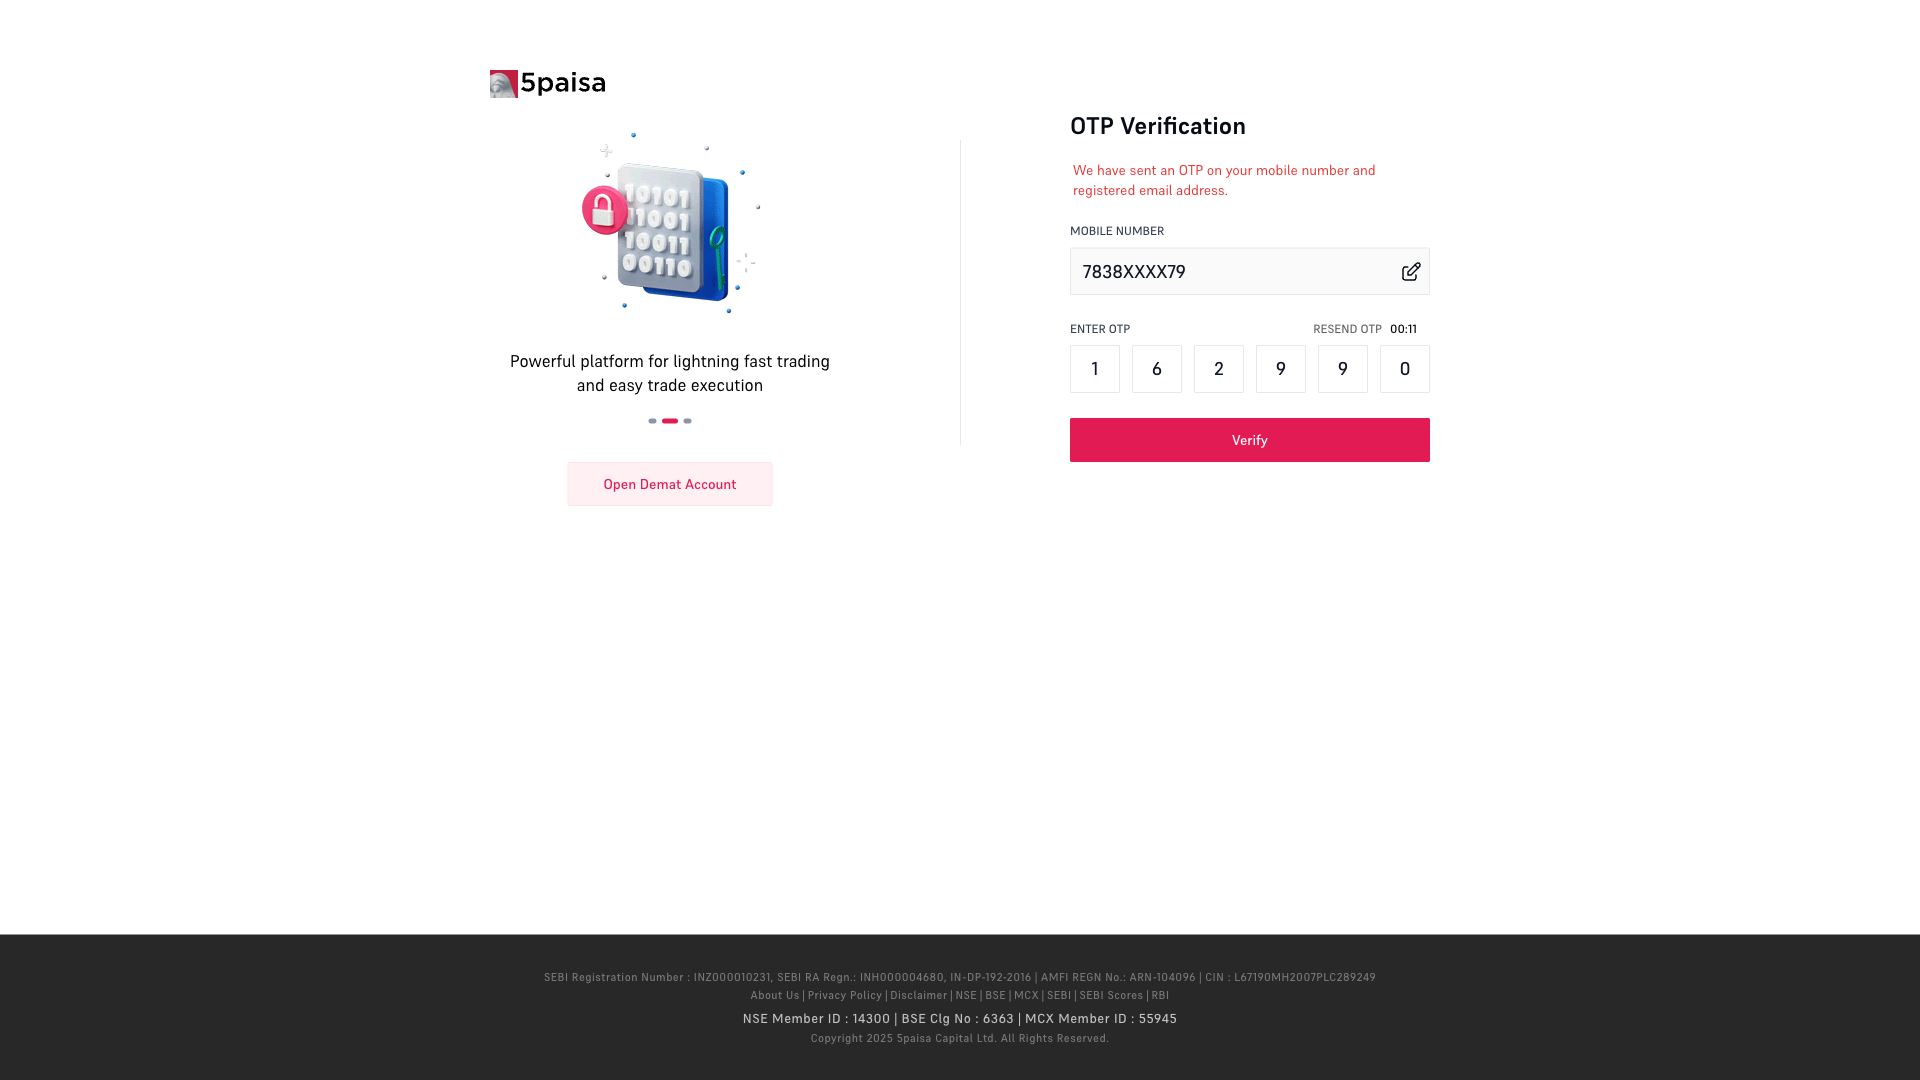
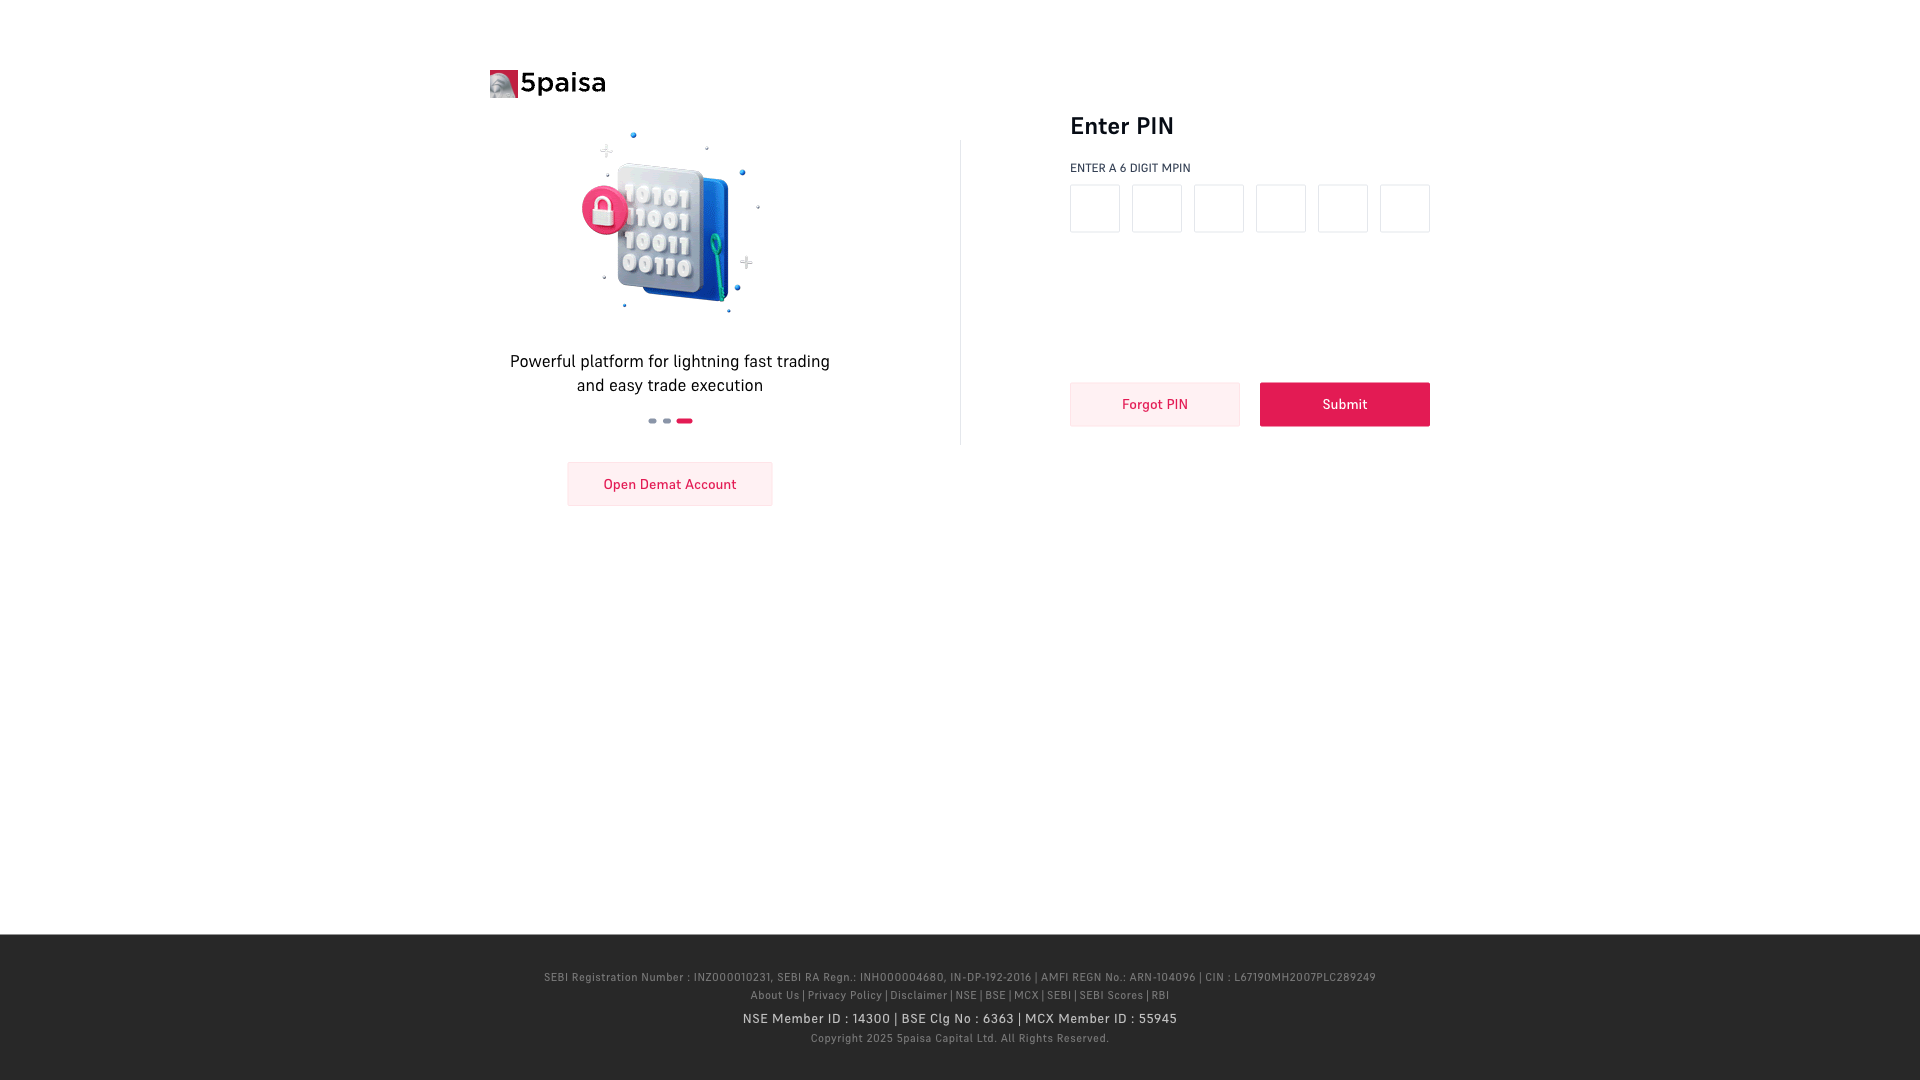
initialcommits only

diff --git a/debug_pin_screen_page.html b/debug_pin_screen_page.html
@@ -60,7 +60,7 @@
         <input type="hidden" id="hdnMobileNo" value="7838XXXX79" style="">
         <input type="hidden" id="hdnVendorKey" value="NgsvVsF61rnO6VAXASdlhvXqLnkZuKCT" style="">
         <input type="hidden" id="hdnState" style="">
-        <input type="hidden" id="hdnResponseURL" value="https://tradeyouralgo.com" style="">
+        <input type="hidden" id="hdnResponseURL" value="http://tradealgo-env.eba-dughp7yu.ap-south-1.elasticbeanstalk.com/api/reqToken" style="">
         <input type="hidden" id="hdnClientCode" value="58245489" style="">
         <input type="button" id="hdnOTPSenttime" value="0:0:30" style="display: none;">
         <input type="button" id="hdnForgetLink" value="N" style="display: none;">
@@ -86,18 +86,18 @@
                                     <div class="item">
                                         <p>Powerful platform for lightning fast trading and easy trade execution</p>
                                     </div>
-                                    <div class="item active">
+                                    <div class="item">
                                         <p>Powerful platform for lightning fast trading and easy trade execution</p>
                                     </div>
-                                    <div class="item">
+                                    <div class="item active">
                                         <p>Powerful platform for lightning fast trading and easy trade execution</p>
                                     </div>
                                 </div>
                                 <!-- Bottom Carousel Indicators -->
                                 <ol class="carousel-indicators">
                                     <li data-target="#quote-carousel" data-slide-to="0" class=""></li>
-                                    <li data-target="#quote-carousel" data-slide-to="1" class="active"></li>
-                                    <li data-target="#quote-carousel" data-slide-to="2" class=""></li>
+                                    <li data-target="#quote-carousel" data-slide-to="1" class=""></li>
+                                    <li data-target="#quote-carousel" data-slide-to="2" class="active"></li>
                                 </ol>
 
                                 <!-- Carousel Buttons Next/Prev -->
@@ -139,7 +139,7 @@
                         
                         <div class="sec_TOTP hide">
                             <h3 class="frm_head">TOTP Verification</h3>
-                            <p class="frm_txt">We have sent an OTP on your mobile number and registered email address.</p>
+                            <p class="frm_txt"></p>
                             <div class="input_wrap">
                                 <label>ENTER TOTP</label>
                                 <div class="mpin">
@@ -181,10 +181,10 @@
 
                         
 
-                        <div class="sec_otp-verification">
+                        <div class="sec_otp-verification hide">
                             
                             <h3 class="frm_head">OTP Verification</h3>
-                            <p class="frm_txt error-msg">We have sent an OTP on your mobile number and registered email address.</p>
+                            <p class="frm_txt error-msg"></p>
                             <div class="input_wrap">
                                 <label>MOBILE NUMBER</label>
                                 <div class="input_icon-wrap">
@@ -200,7 +200,7 @@
                                     <div class="counter-block">
                                         <!-- Add class="inactive" to disabled the 'RESEND OTP' link -->
                                         <a href="javascript: void(0)" id="lnkResendOTP" class="nonclickelem">RESEND OTP</a>
-                                        <span id="counter" class="counter-no">00:11</span>
+                                        <span id="counter" class="counter-no">00:22</span>
                                     </div>
                                 </div>
                                 <div class="mpin">
@@ -238,7 +238,7 @@
                                     </div>
                                 </div>
                             </div>
-                            <div class="msg-wrap error hide" id="ErrorLoginMPINWithOTP">
+                            <div class="msg-wrap error" id="ErrorLoginMPINWithOTP">
                                 <div class="msg-wrap-img"><img src="/WebVendorLogin/content/images/login/Error.png" alt="icon"></div>
                                 <div class="msg-wrap-txt">
                                     
@@ -331,7 +331,7 @@
 
 
                         
-                        <div class="sec_enterPin hide" id="divEnterPin">
+                        <div class="sec_enterPin" id="divEnterPin">
                             <h3 class="frm_head">Enter PIN</h3>
                             <div class="input_wrap">
                                 <label>ENTER A 6 DIGIT MPIN</label>
@@ -380,7 +380,7 @@
                             <!-- OTP verification with Proceed CTA-->
                             <div class="otpverify--box ">
                                 <h3 class="frm_head">OTP Verification</h3>
-                                <p class="frm_txt">We have sent an OTP on your mobile number and registered email address.</p>
+                                <p class="frm_txt"></p>
                                 <div class="input_wrap">
                                     <label>MOBILE NUMBER</label>
                                     <div class="input_icon-wrap">
@@ -478,7 +478,7 @@
                         
                         <div class="sec_register-user hide">
                             <h3 class="frm_head">Login</h3>
-                            <p class="frm_txt">We have sent an OTP on your mobile number and registered email address.</p>
+                            <p class="frm_txt"></p>
                             <div class="input_wrap">
                                 <label>ENTER USER ID</label>
                                 <div class="input_icon-wrap">

diff --git a/debug_otp_screen_page.html b/debug_otp_screen_page.html
@@ -60,7 +60,7 @@
         <input type="hidden" id="hdnMobileNo" value="7838XXXX79" style="">
         <input type="hidden" id="hdnVendorKey" value="NgsvVsF61rnO6VAXASdlhvXqLnkZuKCT" style="">
         <input type="hidden" id="hdnState" style="">
-        <input type="hidden" id="hdnResponseURL" value="https://tradeyouralgo.com" style="">
+        <input type="hidden" id="hdnResponseURL" value="http://tradealgo-env.eba-dughp7yu.ap-south-1.elasticbeanstalk.com/api/reqToken" style="">
         <input type="hidden" id="hdnClientCode" value="58245489" style="">
         <input type="button" id="hdnOTPSenttime" value="0:0:30" style="display: none;">
         <input type="button" id="hdnForgetLink" value="N" style="display: none;">
@@ -200,7 +200,7 @@
                                     <div class="counter-block">
                                         <!-- Add class="inactive" to disabled the 'RESEND OTP' link -->
                                         <a href="javascript: void(0)" id="lnkResendOTP" class="nonclickelem">RESEND OTP</a>
-                                        <span id="counter" class="counter-no">00:30</span>
+                                        <span id="counter" class="counter-no hide">00:00</span>
                                     </div>
                                 </div>
                                 <div class="mpin">

diff --git a/tradeyouralgoextension/fivepaisa_login.py b/tradeyouralgoextension/fivepaisa_login.py
@@ -7,6 +7,7 @@ from playwright.async_api import async_playwright, Browser, Page
 from typing import Optional
 import logging
 from urllib.parse import urlparse, parse_qs
+import re
 
 from .config import (
     FIVEPAISA_MOBILE_NUMBER,
@@ -212,7 +213,9 @@ class FivePaisaLogin:
 
             # Click verify/submit button after OTP entry
             verify_selectors = [
-                'button:has-text("Verify")',
+                '#btnVerify',
+                'button#btnVerify',
+                'button:visible:has-text("Verify")',
                 'button:has-text("Submit")',
                 'button[type="submit"]',
                 'button:has-text("Login")',
@@ -220,10 +223,10 @@ class FivePaisaLogin:
             
             for btn_selector in verify_selectors:
                 try:
-                    btn = await self.page.wait_for_selector(btn_selector, timeout=3000)
+                    btn = await self.page.wait_for_selector(btn_selector, timeout=5000, state="visible")
                     if btn:
-                        await self.page.click(btn_selector)
-                        logger.info("Verify/Submit button clicked after OTP")
+                        await btn.click()
+                        logger.info(f"Verify/Submit button clicked after OTP using selector: {btn_selector}")
                         break
                 except:
                     continue
@@ -261,13 +264,28 @@ class FivePaisaLogin:
                 await self.page.fill(f'#{pin_field_ids[idx]}', digit)
                 await asyncio.sleep(0.1)  # Small delay between fields
             logger.info("PIN entered")
+
+            # Debug: capture PIN screen and button state before submitting
+            try:
+                await self.page.screenshot(path="debug_pin_before_click.png", full_page=True)
+                logger.info("📸 Saved PIN screen screenshot: debug_pin_before_click.png")
+                candidate_btn = await self.page.query_selector('#btnVerificationSubmit')
+                if candidate_btn:
+                    btn_visible = await candidate_btn.is_visible()
+                    btn_enabled = await candidate_btn.is_enabled()
+                    btn_text = await candidate_btn.text_content()
+                    logger.info(f"Submit button state -> visible: {btn_visible}, enabled: {btn_enabled}, text: {btn_text}")
+            except Exception as e:
+                logger.debug(f"Could not capture pre-click PIN debug info: {e}")
             
             # Wait a bit for PIN to be processed
             await asyncio.sleep(0.5)
-            
-            # Click submit button after PIN entry - try multiple strategies
+
+            # Auto-click submit button after PIN entry - try multiple strategies
             pin_submit_selectors = [
-                'button:has-text("Submit")',
+                '#btnVerificationSubmit',
+                'button#btnVerificationSubmit',
+                'button:visible:has-text("Submit")',
                 'button:has-text("Proceed")',
                 'button[type="submit"]',
                 'button:has-text("Verify")',
@@ -277,15 +295,15 @@ class FivePaisaLogin:
                 'button[class*="submit"]',
                 'button[class*="btn"]',
             ]
-            
+
             button_clicked = False
             for btn_selector in pin_submit_selectors:
                 try:
-                    btn = await self.page.wait_for_selector(btn_selector, timeout=2000)
+                    btn = await self.page.wait_for_selector(btn_selector, timeout=3000, state="visible")
                     if btn:
-                        # Check if button is visible and enabled
                         is_visible = await btn.is_visible()
-                        if is_visible:
+                        is_enabled = await btn.is_enabled()
+                        if is_visible and is_enabled:
                             await btn.click()
                             logger.info(f"Submit button clicked after PIN using selector: {btn_selector}")
                             button_clicked = True
@@ -293,7 +311,7 @@ class FivePaisaLogin:
                 except Exception as e:
                     logger.debug(f"Selector {btn_selector} failed: {e}")
                     continue
-            
+
             if not button_clicked:
                 # DEBUG: Find all buttons on the page
                 logger.warning("Could not find submit button with standard selectors. Finding all buttons...")
@@ -311,7 +329,7 @@ class FivePaisaLogin:
                         }));
                     }
                 """)
-                
+
                 logger.info("=" * 80)
                 logger.info("🔍 DEBUG: All Buttons Found on PIN Screen:")
                 logger.info("=" * 80)
@@ -325,7 +343,7 @@ class FivePaisaLogin:
                         logger.info(f"  Text: {btn['text']}")
                         logger.info(f"  Disabled: {btn['disabled']}")
                 logger.info("=" * 80)
-                
+
                 # Try clicking the first visible button that's not disabled
                 for btn_info in buttons_info:
                     if btn_info['visible'] and not btn_info['disabled'] and btn_info['text']:
@@ -337,43 +355,48 @@ class FivePaisaLogin:
                             logger.info(f"Clicked button: {btn_info['text']}")
                             button_clicked = True
                             break
-                        except:
+                        except Exception:
                             continue
-                
+
                 if not button_clicked:
                     logger.error("❌ Could not find or click submit button after PIN entry")
                     await self.page.screenshot(path="pin_submit_error.png")
                     raise Exception("Could not find submit button after PIN entry")
 
-            # Step 5: Wait for redirect to ResponseURL (tradeyouralgo.com)
-            logger.info(f"Waiting for redirect to {FIVEPAISA_RESPONSE_URL}...")
-            
-            # Wait for navigation to the response URL
-            try:
-                await self.page.wait_for_url(
-                    lambda url: FIVEPAISA_RESPONSE_URL in url,
-                    timeout=60000  # 60 seconds timeout for redirect
-                )
-                logger.info(f"Redirected to: {self.page.url}")
-            except Exception as e:
-                logger.warning(f"Redirect wait timeout or error: {e}")
-                logger.info(f"Current URL: {self.page.url}")
-                # Take screenshot for debugging
-                await self.page.screenshot(path="redirect_error.png")
+            # Step 5: Wait for backend callback/redirect and extract access token
+            logger.info(f"Waiting for backend callback/response at {FIVEPAISA_RESPONSE_URL} (no manual redirect) ...")
 
-            # Step 6: Extract access token from redirect URL
-            current_url = self.page.url
-            self.access_token = self._extract_token_from_url(current_url)
+            # Normalize target URL for flexible matching (http/https, trailing slash)
+            target_substr = FIVEPAISA_RESPONSE_URL.replace("https://", "").replace("http://", "").rstrip("/")
+
+            response_text = None
+            try:
+                resp = await self.page.wait_for_event(
+                    "response",
+                    predicate=lambda r: target_substr in r.url.replace("https://", "").replace("http://", ""),
+                    timeout=60000  # give the backend enough time to answer
+                )
+                response_text = await resp.text()
+                logger.info(f"Received response from backend callback (first 200 chars): {response_text[:200]}...")
+            except Exception as e:
+                logger.warning(f"Did not get backend callback response within timeout: {e}")
+                logger.info("Continuing without redirect wait; page should stay on 5paisa")
+
+            # Step 6: Extract access token from response text or redirect URL
+            self.access_token = None
+            if response_text:
+                self.access_token = self._extract_token_from_response(response_text)
             
             if self.access_token:
-                logger.info("✅ Login successful! Access token extracted from redirect URL.")
+                logger.info("✅ Login successful! Access token obtained.")
                 logger.info(f"Token (first 20 chars): {self.access_token[:20]}...")
                 return self.access_token
             else:
-                logger.error("❌ Login completed but access token not found in redirect URL")
-                logger.error(f"Redirect URL: {current_url}")
+                logger.error("❌ Login completed but access token not found in backend response body")
                 # Take screenshot for debugging
                 await self.page.screenshot(path="token_extraction_error.png")
+                # Keep the browser open a bit longer so you can manually check
+                await asyncio.sleep(30)
                 return None
 
         except Exception as e:
@@ -432,6 +455,24 @@ class FivePaisaLogin:
 
         except Exception as e:
             logger.error(f"Error extracting RequestToken from URL: {str(e)}")
+            return None
+
+    def _extract_token_from_response(self, response_text: str) -> Optional[str]:
+        """
+        Extract AccessToken from backend callback response body.
+        
+        Expected format: "AccessToken Generated : <token>"
+        """
+        try:
+            match = re.search(r"AccessToken\s+Generated\s*:\s*(\S+)", response_text)
+            if match:
+                token = match.group(1).strip()
+                logger.info("AccessToken found in backend response body")
+                return token
+            logger.warning("AccessToken not found in backend response body")
+            return None
+        except Exception as e:
+            logger.error(f"Error extracting token from backend response: {str(e)}")
             return None
 
     async def _debug_page_structure(self, stage: str):
@@ -535,4 +576,3 @@ async def login_and_get_token() -> Optional[str]:
         return token
     finally:
         await login_handler.close()
-

diff --git a/tradeyouralgoextension/main.py b/tradeyouralgoextension/main.py
@@ -7,8 +7,7 @@ import sys
 import os
 
 from .fivepaisa_login import login_and_get_token
-from .backend_client import BackendClient
-from .config import FIVEPAISA_MOBILE_NUMBER, BACKEND_API_ENDPOINT, OTP_API_ENABLED, OTP_API_URL
+from .config import FIVEPAISA_MOBILE_NUMBER, OTP_API_ENABLED, OTP_API_URL
 from .otp_api_server import start_otp_api_server_thread
 from .logging_config import setup_logging
 
@@ -54,25 +53,10 @@ async def main_async():
             logger.error("Failed to obtain access token from 5paisa")
             return False
         
-        logger.info(f"Access token obtained: {access_token[:20]}...")
-        
-        # Step 2: Send token to backend
-        logger.info("Step 2: Sending access token to backend...")
-        backend_client = BackendClient()
-        
-        # Verify backend connection (optional)
-        if not backend_client.verify_connection():
-            logger.warning("Backend health check failed, but continuing...")
-        
-        success = backend_client.send_access_token(access_token)
-        
-        if success:
-            logger.info("✅ Successfully logged in and sent access token to backend!")
-            logger.info(f"Backend endpoint: {BACKEND_API_ENDPOINT}")
-            return True
-        else:
-            logger.error("❌ Failed to send access token to backend")
-            return False
+        logger.info(f"Access token obtained (first 20 chars): {access_token[:20]}...")
+        print(f"AccessToken: {access_token}")
+        logger.info("✅ Login completed and access token printed.")
+        return True
 
     except Exception as e:
         logger.error(f"Error in main execution: {str(e)}", exc_info=True)
@@ -94,4 +78,3 @@ def main():
 
 if __name__ == "__main__":
     main()
-
